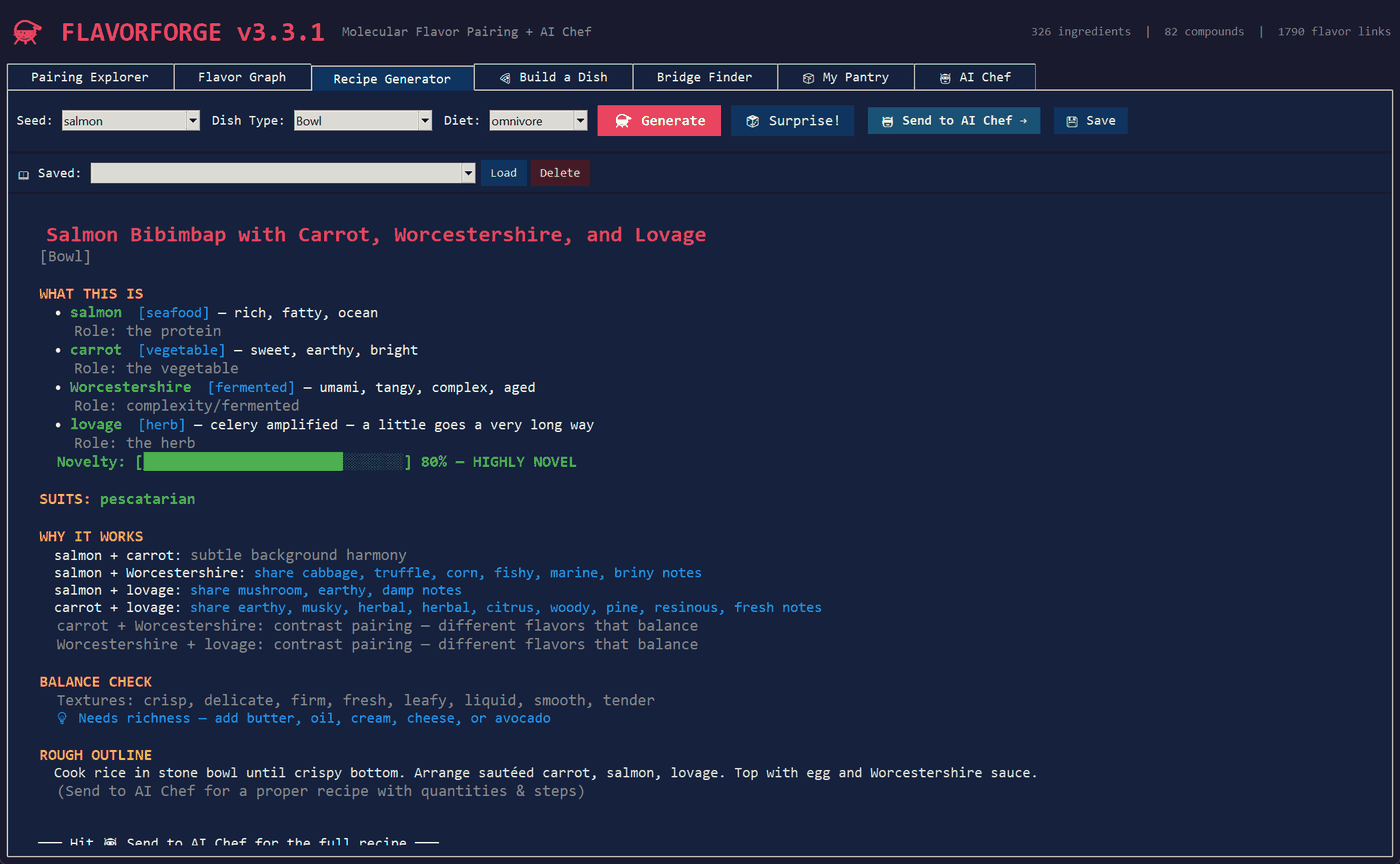
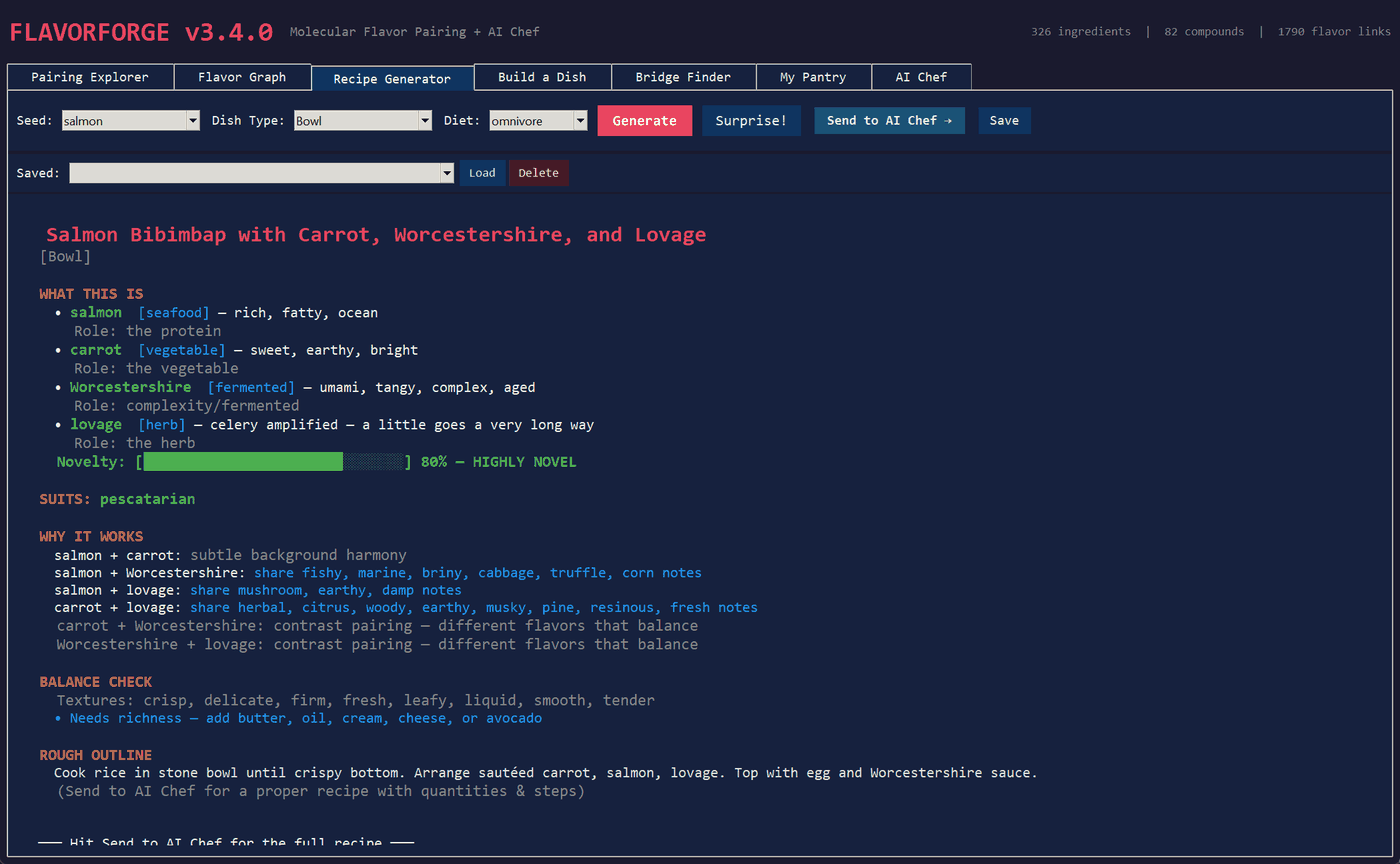
Release 3.4.0: changelog, version, and a screenshot without emoji
Version stated in the three places the release workflow and the existing
test check. The changelog covers this series -- the faster window, salt
and acid as seasoning, the pairing notes, the CLI names, the salads, the
graph on resize, and the CI and release work -- and says that 3.4.0 is the
first published release to carry 3.3.1's fixes.

The README screenshot is retaken: the window lost its emoji, and the "WHY
IT WORKS" line no longer repeats "herbal".

diff --git a/flavorforge.py b/flavorforge.py
@@ -1,13 +1,13 @@
 #!/usr/bin/env python3
 """
-FlavorForge - Procedural Cooking Engine v3.3.1
+FlavorForge - Procedural Cooking Engine v3.4.0
 Generates novel recipes based on molecular flavor compound pairing theory.
 Uses real aroma compound data to find scientifically-grounded ingredient combinations.
 326 ingredients, 82 compounds, 102 templates across 16 dish types.
 AI Chef integration (Ollama / Claude API) for full recipe generation.
 
 Author: James Cupps
-Version: 3.3.1
+Version: 3.4.0
 """
 
 import ctypes
@@ -52,7 +52,7 @@ from typing import Dict, List, Set, Tuple, Optional
 # Compounds are key volatile/aroma molecules that define flavor
 # ═══════════════════════════════════════════════════════════════════
 
-__version__ = "3.3.1"
+__version__ = "3.4.0"
 
 COMPOUND_CATEGORIES = {
     "terpene": "#4CAF50",

diff --git a/CHANGELOG.md b/CHANGELOG.md
@@ -1,5 +1,62 @@
 # Changelog
 
+## [3.4.0] — 2026-11-20
+
+The first published release since 3.3.0, so it also carries the fixes in
+3.3.1, which was tagged but never published; they are listed in the
+[changelog](https://github.com/jamesccupps/FlavorForge/blob/main/CHANGELOG.md).
+From this release on, a version tag publishes its own release.
+
+### Changed
+
+- **The window opens in half the time.** Tk on Windows searches for a
+  fallback font the first time it draws a glyph its font lacks: 270–430 ms
+  for each emoji, 100–180 ms for the alembic, hourglass and heavy
+  check/cross marks, each measured in a fresh interpreter. Fourteen sat in
+  the header, tabs, buttons and welcome text. They are gone, and the window
+  opens in a median 0.84 s instead of 1.9 s. Tips are bulleted with "•" and
+  "Done" keeps its "✓", both glyphs that cost nothing.
+- **Balance tips treat salt and acid as seasoning.** "No acid to brighten"
+  appeared on 68% of generated recipes and "Consider adding salt" on 51%; a
+  cook adjusts both at the end, and the AI Chef's prompt already asks for
+  salt. What remains is imbalance among the ingredients themselves — salty
+  with no acid, very sweet, heat without fat, bitter without sweet — and no
+  tip now appears on more than a third of recipes.
+
+### Fixed
+
+- "WHY IT WORKS" repeated notes on 18% of lines ("herbal, herbal") and took
+  its three compounds in an arbitrary order. Each note is said once, and the
+  compounds are the rarest shared ones, as on the command line.
+- The command line printed internal keys: "check the label on: bbq_sauce".
+- Three salads chose an oil their method never mentioned.
+- The Flavor Graph kept the layout it computed on first drawing, so
+  shrinking the window drew nodes off the canvas.
+
+### CI and releases
+
+- **A `v*` tag publishes the release.** The workflow tests the tagged
+  source, checks the tag against `__version__`, and creates the GitHub
+  release with that version's CHANGELOG section as its notes. Publishing to
+  PyPI is in the same workflow, off until the `PUBLISH_TO_PYPI` repository
+  variable is set; it uses trusted publishing and needs a one-time setup on
+  pypi.org.
+- **GUI tests are required on every CI leg** instead of skipping when Tk
+  cannot start. That showed what the skips had hidden: on Windows with Tk
+  8.6 (Python 3.10–3.13), a process creating many Tk interpreters sometimes
+  fails to read Tcl's own `init.tcl`, a different test each run. The tests
+  now retry Tk start-up; the app, which creates one interpreter, needed no
+  change.
+- Failed tests become annotations, readable on the run page without signing
+  in to GitHub. A separate step checks that Tk can open a window.
+- Python 3.15 joins the matrix; actions/checkout 7 and actions/setup-python
+  7 (Dependabot #1 and #2).
+- 340 → 359 tests.
+
+### Known issue, not changed
+
+- The novelty score still does not discriminate (see 3.3.0).
+
 ## [3.3.1] — 2026-11-16
 
 Fixes from an outside review of 3.3.0, each verified against the code before
